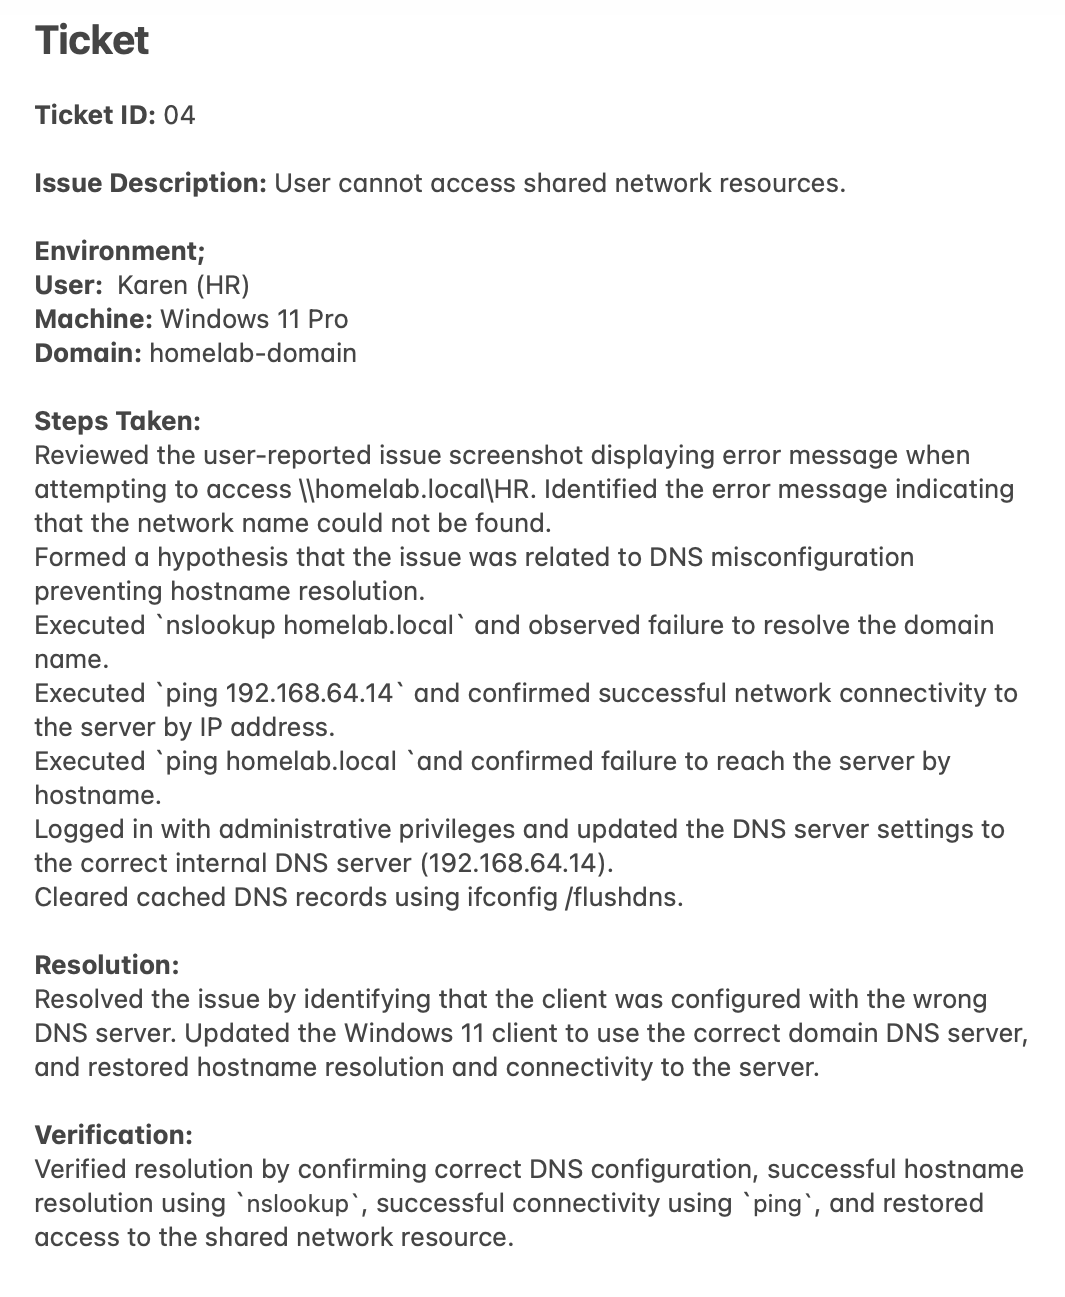
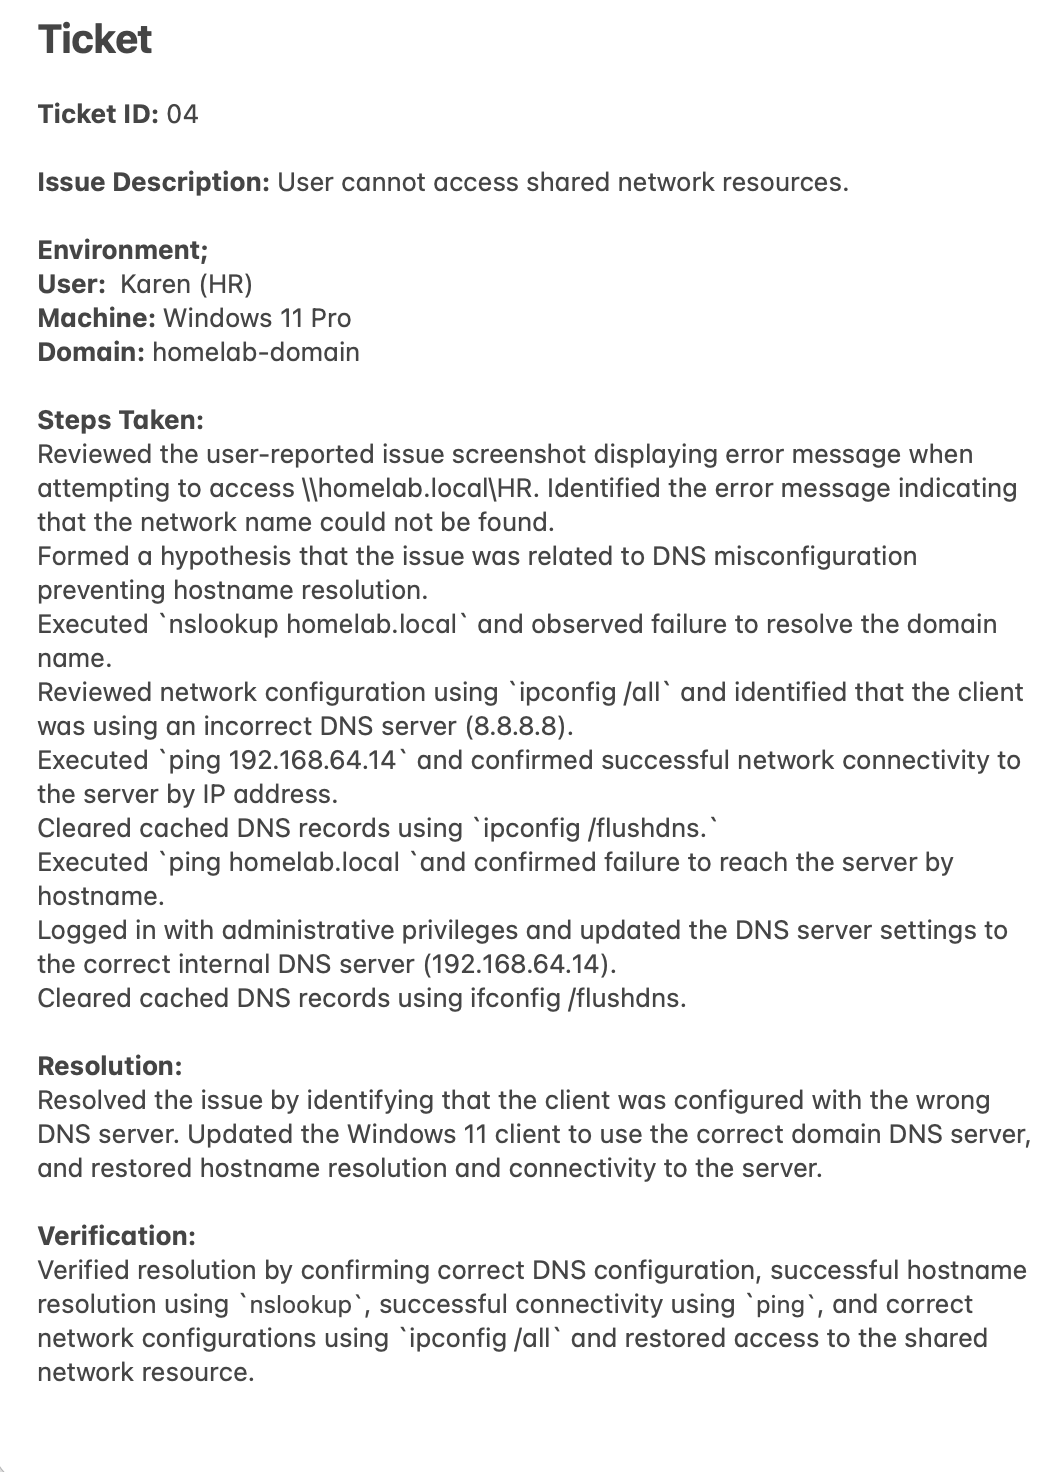
update format

Changed region(s): [[0.031, 0.0, 0.9624, 0.9561]]

diff --git a/README.md b/README.md
@@ -51,14 +51,21 @@ ping homelab.local
 ---
 
 ### 4. Established a Plan of Action and Implemented the Solution
-Established a plan to correct the DNS configuration by updating the client to use the internal domain DNS server. Logged on workstation with Administrator credentials to perform the DNS configuration. Opened Settings → Network & Internet → Advanced Network Settings → Ethernet drop down → More Adapter Options → Internet Protocol Version 4 (TCP/IPv4) Properties and changed Preferred DNS Server from `8.8.8.8` to `192.168.64.14` (domain controller). 
+Established a plan to correct the DNS configuration by updating the client to use the internal domain DNS server and clear cached DNS records. Logged on workstation with Administrator credentials to perform the DNS configuration. Opened Settings → Network & Internet → Advanced Network Settings → Ethernet drop down → More Adapter Options → Internet Protocol Version 4 (TCP/IPv4) Properties and changed Preferred DNS Server from `8.8.8.8` to `192.168.64.14` (domain controller). 
+
+**Command Used**
+```
+ipconfig /flushdns
+```
 
 ![Screenshot 4](4-updated-dns-server.png)
+
+![Screenshot 4.5](4.5-ipconfig-flushdns.png)
 
 ---
 
 ### 5. Verified Full System Functionality
-Verified by confirming hostname resolution through `nslookup` and restored communication to the server using `ping`. User successfully had access to the shared folder. 
+Verified by confirming hostname resolution through `nslookup`, restored communication to the server using `ping`, and reviewed network configurations with `ipconfig` User successfully had access to the shared folder. 
 
 **Command Used**
 ```
@@ -69,7 +76,13 @@ nslookup homelab.local
 ping homelab.local
 ```
 
+```
+ipconfig /all
+```
+
 ![Screenshot 5](5-nslookup-ping-success.png)
+
+![Screenshot 6.5](6.5-ipconfig-all.png)
 
 ![Screenshot 6](6-shared-folder-accessed.png)
 
